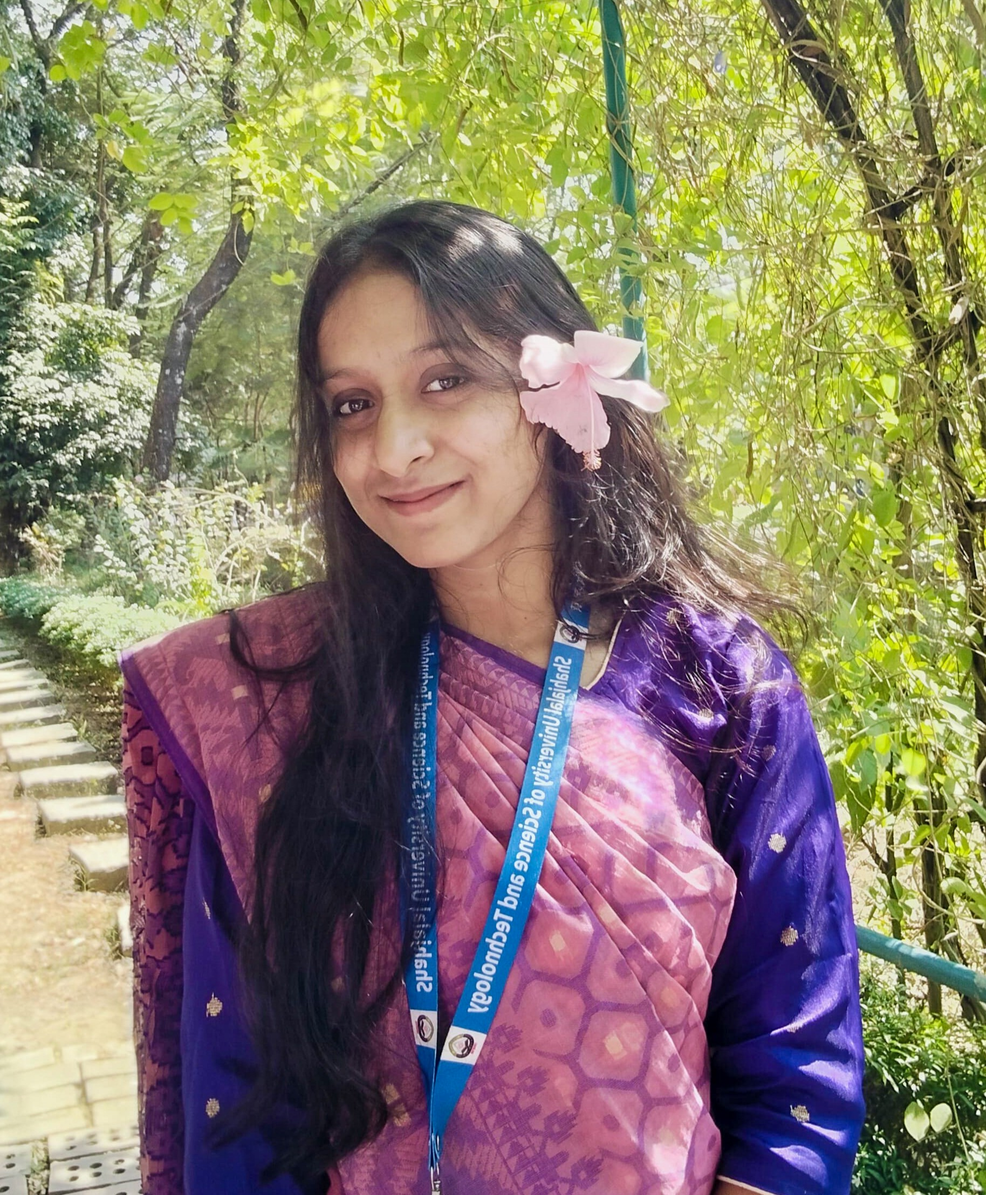
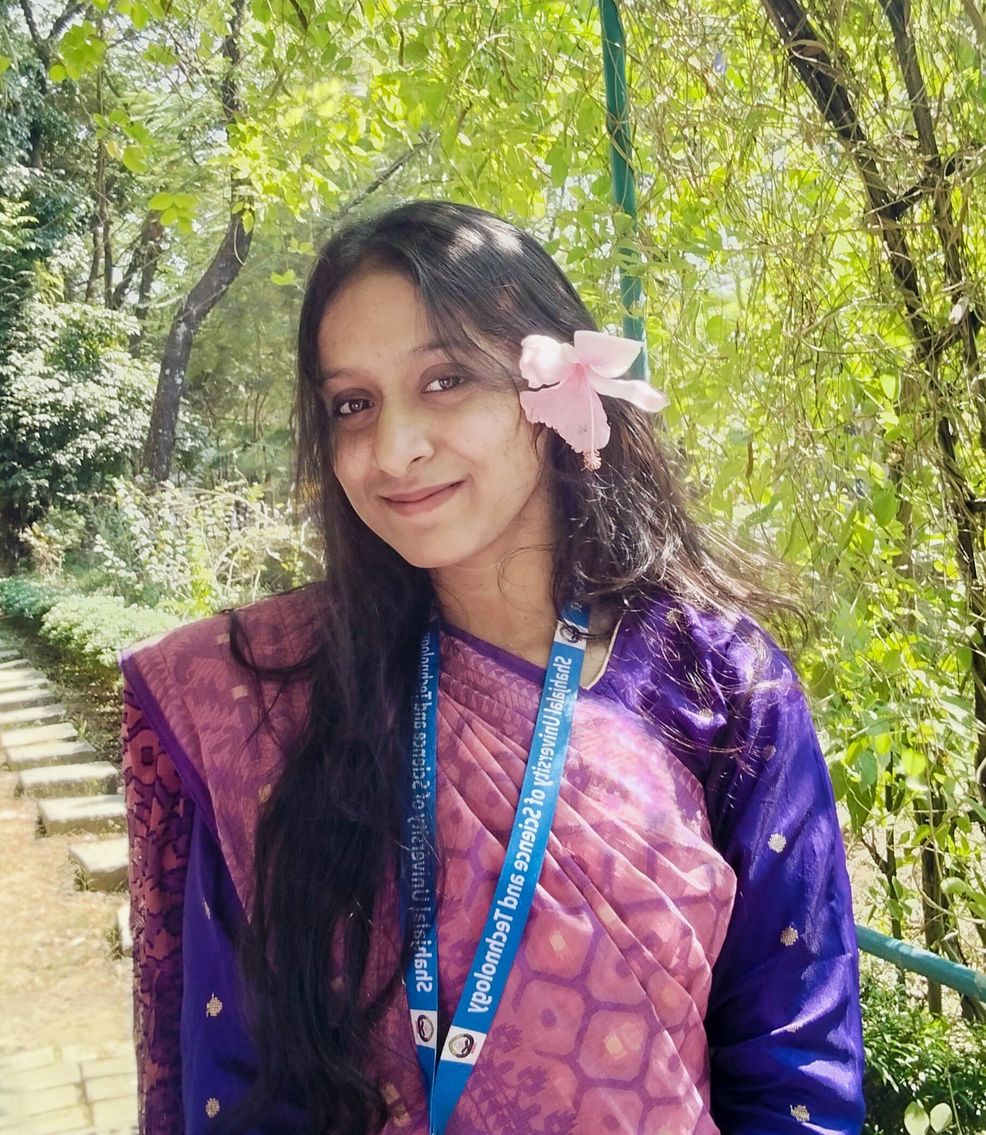
teachers update

diff --git a/index.html b/index.html
@@ -174,7 +174,7 @@ nav.scrolled{background:rgba(10,61,64,0.97);backdrop-filter:blur(20px);box-shado
 .teacher-card{background:var(--warm-white);border-radius:4px;overflow:hidden;box-shadow:0 4px 20px rgba(10,40,40,0.08);border:1px solid rgba(26,107,122,0.07);display:flex;align-items:stretch;transition:all 0.4s var(--ts);}
 .teacher-card:hover{transform:translateY(-6px);box-shadow:var(--shadow-card);}
 .teacher-photo-wrap{width:90px;flex-shrink:0;cursor:pointer;overflow:hidden;position:relative;min-height:110px;}
-.teacher-photo-wrap::after{content:'🔍';position:absolute;inset:0;background:rgba(10,61,64,0.6);display:flex;align-items:center;justify-content:center;font-size:1.4rem;opacity:0;transition:opacity 0.35s;}
+/* .teacher-photo-wrap::after{content:'🔍';position:absolute;inset:0;background:rgba(10,61,64,0.6);display:flex;align-items:center;justify-content:center;font-size:1.4rem;opacity:0;transition:opacity 0.35s;} */
 .teacher-photo-wrap:hover::after{opacity:1;}
 .teacher-photo-wrap img{width:100%;height:100%;object-fit:cover;display:block;position:absolute;top:0;left:0;transition:transform 0.5s var(--ts);}
 .teacher-card:hover .teacher-photo-wrap img{transform:scale(1.08);}
@@ -204,7 +204,7 @@ nav.scrolled{background:rgba(10,61,64,0.97);backdrop-filter:blur(20px);box-shado
 .event-gallery{display:grid;grid-template-columns:repeat(4,1fr);gap:0.8rem;}
 .event-gallery-img{aspect-ratio:1;border-radius:3px;overflow:hidden;cursor:pointer;transition:all 0.35s var(--ts);position:relative;background:linear-gradient(135deg,var(--deep-teal),var(--river-blue));display:flex;align-items:center;justify-content:center;font-size:1.8rem;}
 .event-gallery-img img{width:100%;height:100%;object-fit:cover;display:block;position:absolute;top:0;left:0;}
-.event-gallery-img::after{content:'🔍';position:absolute;inset:0;background:rgba(10,61,64,0.6);display:flex;align-items:center;justify-content:center;font-size:1.4rem;opacity:0;transition:opacity 0.3s;z-index:2;}
+/* .event-gallery-img::after{content:'🔍';position:absolute;inset:0;background:rgba(10,61,64,0.6);display:flex;align-items:center;justify-content:center;font-size:1.4rem;opacity:0;transition:opacity 0.3s;z-index:2;} */
 .event-gallery-img:hover{transform:scale(1.04);}
 .event-gallery-img:hover::after{opacity:1;}
 
@@ -509,7 +509,7 @@ const executiveMembers = [
   {name:'Fajlay Raiyan',         dept:'Mechanical Engineering',                   area:'Matlab Uttar',   position:'Assistant Office Secretary',      session:'23-24'},
   {name:'Ismail Hossain Tonmoy', dept:'Geography & Environment',                  area:'Faridganj',      position:'Assistant Office Secretary',      session:'23-24'},
   {name:'Mohammad Noman',        dept:'Mechanical Engineering',                   area:'Faridganj',      position:'Assistant Media Secretary',       session:'23-24'},
-  {name:'Fahim Ahammad Tanvir',  dept:'Software Engineering',                     area:'Haimchar',       position:'Assistant Publication Secretary', session:'23-24'},
+  {name:'Md Fahim Ahammad Tanvir',  dept:'Software Engineering',                     area:'Haimchar',       position:'Assistant Publication Secretary', session:'23-24'},
   {name:'Fabiha Bushra Dilshad', dept:'Genetic Engineering & Biotechnology',      area:'Matlab Uttar',   position:'Assistant Publication Secretary', session:'23-24'},
   {name:'Maryam Chowdhury',      dept:'Economics',                                area:'Kachua',         position:'Assistant Human Rights Secretary',session:'23-24'},
   {name:'Shahinur Akter Mitu',   dept:'Economics',                                area:'Kachua',         position:'Assistant Cultural Secretary',    session:'23-24'},
@@ -567,16 +567,23 @@ const allGeneralMembers = [
 ];
 
 const teachers = [
-  {name:'Prof. Dr. Abdul Mannan', dept:'Computer Science & Engineering',   position:'Professor'},
-  {name:'Dr. Shahnaz Parvin',     dept:'Mathematics',                      position:'Associate Professor'},
-  {name:'Md. Zahirul Haque',      dept:'Physics',                          position:'Assistant Professor'},
-  {name:'Dr. Kamrul Hasan',       dept:'Civil & Environmental Engineering',position:'Professor'},
-  {name:'Ms. Roksana Islam',      dept:'Business Administration',          position:'Lecturer'},
-  {name:'Dr. Anowarul Kabir',     dept:'Electrical & Electronic Engineering',position:'Associate Professor'},
-  {name:'Tania Akter',            dept:'Chemistry',                        position:'Assistant Professor'},
-  {name:'Md. Faruk Hossain',      dept:'Architecture',                     position:'Lecturer'},
+  { name: 'Dr S M Saiful Islam', dept: 'Chemistry', position: 'Professor' },
+  { name: 'Dr. Md Zakir Hossain', dept: 'Statistics', position: 'Professor' },
+  { name: 'Dr. Mirza Nazmul Hasan', dept: 'Statistics', position: 'Professor' },
+  { name: 'Dr. Mohammad Jasim Uddin', dept: 'Sociology', position: 'Professor' },
+  { name: 'Dr Mohammad Abdul Hannan', dept: 'Economics', position: 'Professor' },
+  { name: 'Dr Masud Alam', dept: 'Economics', position: 'Professor' },
+  { name: 'Dr. Nur Mohammad Majumder', dept: 'Anthropology', position: 'Professor' },
+  { name: 'Dr. Nilufa Aktar', dept: 'Bangla', position: 'Professor' },
+  { name: 'Dr Mohammad Razaul Karim', dept: 'Chemistry', position: 'Professor' },
+  { name: 'Syed Towfiq Mahmood Hasan', dept: 'Business Administration', position: 'Associate Professor' },
+  { name: 'Mohammad Abdullah-Al-Shoeb', dept: 'Biochemistry and Molecular Biology', position: 'Associate Professor(On leave)' },
+  { name: 'Dr Mohammad Shaiful Alam Amin', dept: 'Chemical Engineering & Polymer Science', position: 'Professor' },
+  { name: 'Shahla Safwat Ravhee', dept: 'Architecture', position: 'Assistant Professor(On leave)' },
+  { name: 'Md. Syamul Bashar', dept: 'Mechanical Engineering', position: 'Assistant Professor' },
+  { name: 'Md. Mahin Uddin', dept: 'Geography and Environment', position: 'Lecturer' },
+  { name: 'Mahabub Alam', dept: 'FET', position: 'Lecturer' }
 ];
-
 const staffMembers = [
   {name:'Md. Shamsul Haque', dept:'Registrar Office', position:'Senior Staff'},
   {name:'Rubina Akter',      dept:'Library',           position:'Librarian'},

diff --git a/justme/intro.html b/justme/intro.html
@@ -963,7 +963,7 @@
     </div>
     <div class="about-right reveal">
       <div class="about-img-frame">
-        <img src="https://images.unsplash.com/photo-1507003211169-0a1dd7228f2d?w=600&q=80&fit=crop" alt="Fahim">
+        <img src="IMG_20240617_182602_164.jpg" alt="Fahim">
       </div>
       <div class="about-frame-accent"></div>
       <div class="about-tag">
